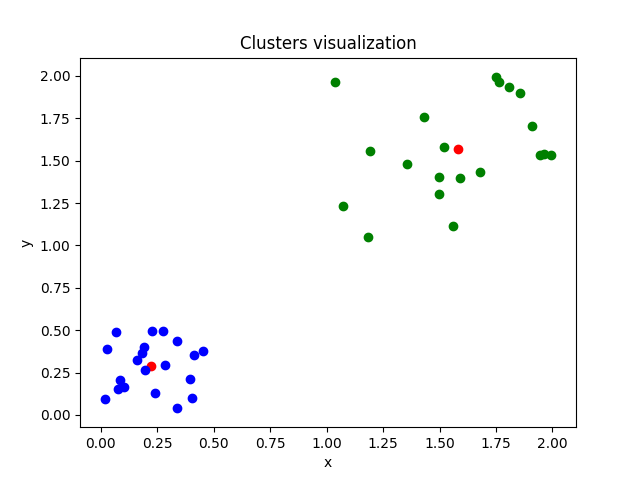
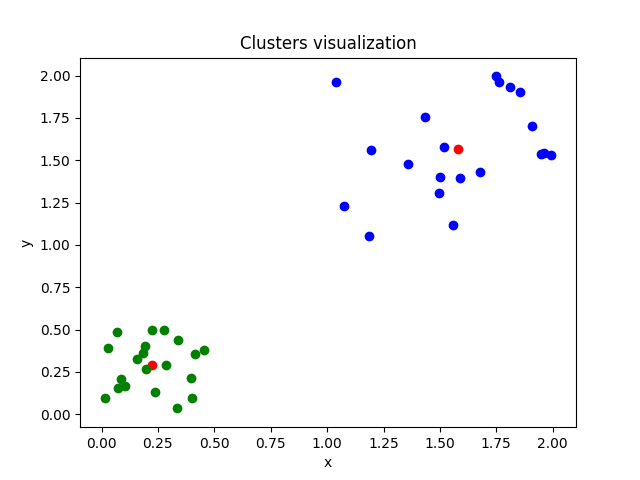
multiple random init working

diff --git a/kmeans/kmeans.py b/kmeans/kmeans.py
@@ -1,4 +1,5 @@
 import numpy as np
+import random
 import matplotlib.pyplot as plt
 import matplotlib.animation as animation
 
@@ -12,6 +13,8 @@ def print_it(it):
 def load_data(data_path):
     """Return data from a txt file as array"""
     return np.loadtxt(data_path)
+
+# TODO: function for data generation
 
 def euclidian_dist(x, y):
     """Return the Euclidian distance between x and y (N dimentions)"""
@@ -61,6 +64,8 @@ def plot_clusters(clusters, centroids, save=False):
         plt.savefig("clusters_visualization.png")
     plt.show()
 
+# TODO: function for iteration visualization
+
 def average_position_cluster(cluster):
 
     sums = [] #sum on each dimension
@@ -76,37 +81,74 @@ def average_position_cluster(cluster):
 
     return (sums[0]/float(nb_points) , (sums[1]/float(nb_points)))
 
-def kmeans(data, k=2, iter=10, epsilon=None, distance='euclidian'):
+def movement_rate(prev_centroids, centroids):
+
+    sum_diff = 0
+    for prev, centr in zip(prev_centroids, centroids):
+        sum_diff += abs(prev[0] - centr[0])
+        sum_diff += abs(prev[1] - centr[1])
+
+    epsilon = sum_diff / float(len(centroids)) / float(len(centroids[0]))
+
+    return epsilon
+
+def random_centroids(nb_centroid, dims=2, min=0, max=1):
+    centroids = []
+    for i in range(nb_centroid):
+        dim = []
+        for j in range(dims):
+            dim.append(random.random()*max+min)
+        centroids.append(dim)
+    return centroids
+
+
+def kmeans(data, k=2, iter=1, epsilon=0.1, distance='euclidian'):
+    """This function use K-means algorithm to split the data into k clusters
+
+    Args :
+        iter: Number of times we will execute the algorithm from diffrent random points
+        epsilon:
+
+    """
 
     clusters = {}
-    centroids = [(0.15, 0.1), (0.5, 0.1)]
 
-    # TODO: complexe choise op
     for it in range(iter):
         print_it(it)
 
-        print("Centroids before move : \t{}".format(centroids))
+        centroids = random_centroids(2, 2, 0, 2)
 
-        # Reset clusters
-        for i in range(k):
-            clusters[i] = []
 
-        #compute the distance between each point and eauch centroid
-        for data_point in data:
-            dist = []
-            for centr_idx, centroid in enumerate(centroids):
-                dist.append(euclidian_dist(data_point, centroid))
+        convergence = False
 
-            clusters[np.argmin(dist)].append(data_point)
-            #print(dist)
-        #print(clusters[0])
-        #print(clusters[1])
+        while not convergence:
 
-        #Move centroides to the average of their points
-        for clust_idx in clusters.keys():
-            centroids[clust_idx] = average_position_cluster(clusters[clust_idx])
+            prev_centroids = centroids.copy()
 
-        print("Centroids after move : \t{}".format(centroids))
+            # Reset clusters
+            for i in range(k):
+                clusters[i] = []
+
+            #compute the distance between each point and eauch centroid
+            for data_point in data:
+                dist = []
+                for centr_idx, centroid in enumerate(centroids):
+                    dist.append(euclidian_dist(data_point, centroid))
+
+                clusters[np.argmin(dist)].append(data_point)
+
+            #Move centroides to the average of their points
+            for clust_idx in clusters.keys():
+                centroids[clust_idx] = average_position_cluster(clusters[clust_idx])
+
+            move_rate = movement_rate(prev_centroids, centroids)
+            print("Movement rate : {}".format(move_rate))
+            print("From\t{} \nTo\t{}\n".format(prev_centroids, centroids))
+
+            if(move_rate < epsilon):
+                convergence = True
+
+        # TODO: compute std deviation and save the bests clusters
 
     return clusters, centroids
 
